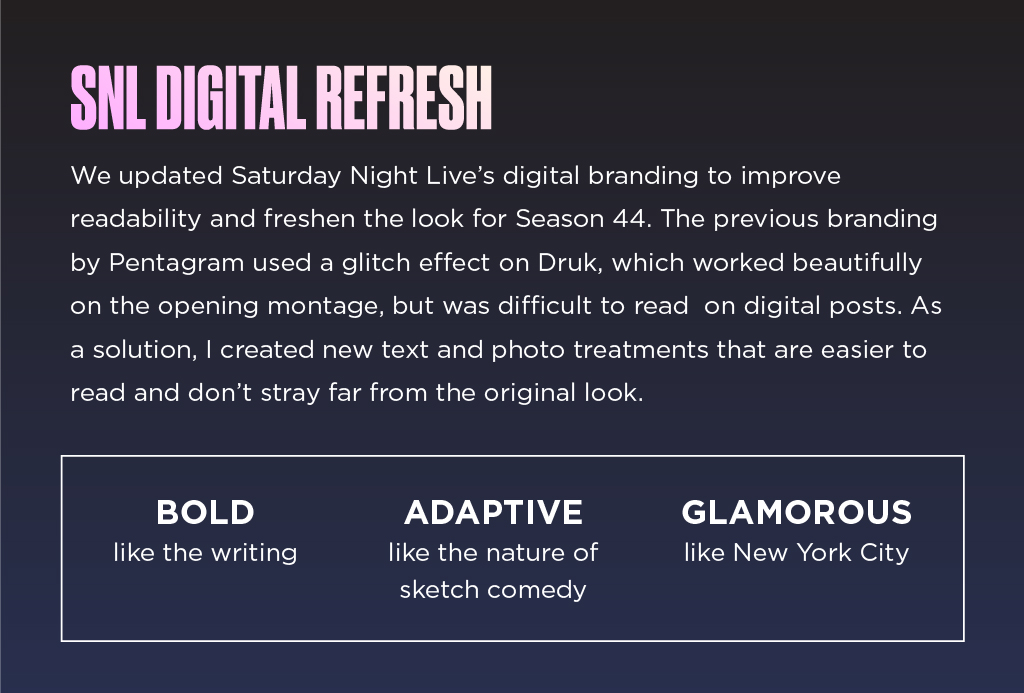
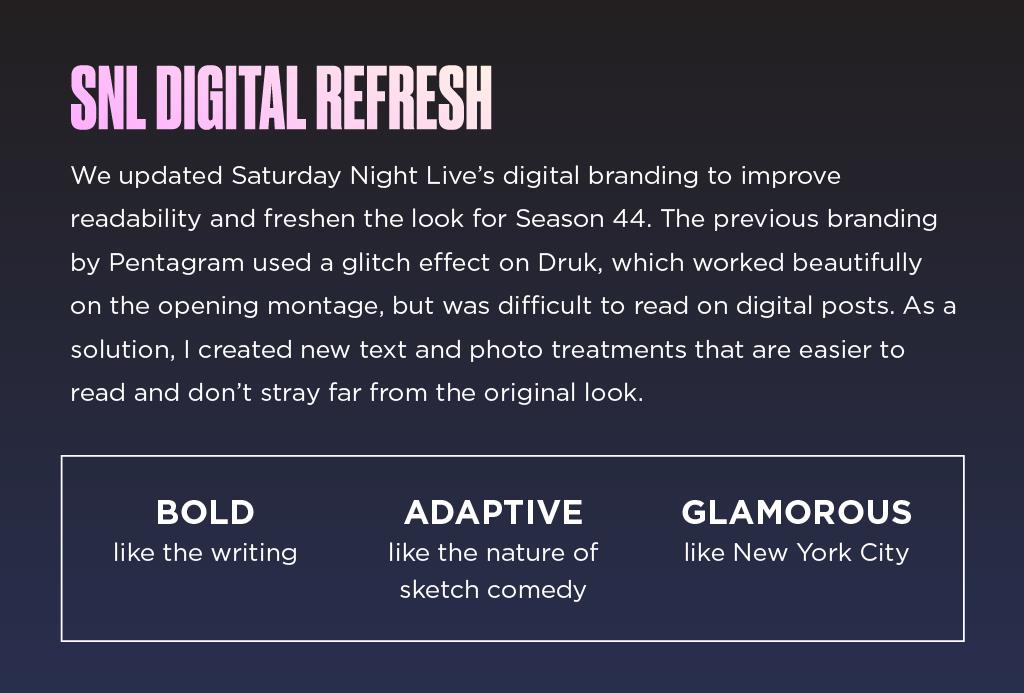
updates v2
switch Courier to Lucida/Monaco, fixed spacing, fixed 404 page, fixed typo in snl-style.jpg, edited copy

Changed region(s): [[0.0625, 0.4848, 0.9062, 0.5152], [0.6875, 0.4242, 0.9375, 0.4545]]

diff --git a/_includes/style.css b/_includes/style.css
@@ -1,1 +1,1 @@
-.h1,.h2,.h3,.p,body,h1,h2,h3,html,p{font-family:Helvetica,Arial,sans-serif}.content,dfn{position:relative}.disable,dfn::after{pointer-events:none}.resume:hover,a:hover,a:link,a:visited{text-decoration:none}.align-center,.copyright{text-align:center}html{min-height:100%}body{height:100%;max-width:1600px}body,html{margin:0 auto;font-size:62.5%;text-transform:lowercase;color:#707070;line-height:1.5;background:#f8fbff;background:-webkit-linear-gradient(#f8fbff,#ebf0f7);background:-moz-linear-gradient(#f8fbff,#ebf0f7);background:linear-gradient(#f8fbff,#ebf0f7)}.content{margin:0 auto;padding:0 10rem}.content:after{clear:both;content:" ";display:block}.nav-logo,a,button,svg path{-webkit-transition:all .2s ease-out;-moz-transition:all .2s ease-out;transition:all .2s ease-out}dfn::after,dfn::before{position:absolute;left:0;opacity:0;transition:opacity 250ms,top 250ms}img{max-width:100%;display:block}section{margin:7rem auto 0}ol,ul{list-style:none}li{display:inherit}hr{margin:5rem}.spacer{margin:5rem 0}.padding-xs{padding:0 0 2rem 2rem}.grey{color:#aaa!important}.disable{cursor:default}a:link,a:visited{color:#DC0BBB}a:hover{color:#3C55E0}.p,p{font-size:1.5rem;text-transform:none;line-height:1.8}.h1,.h2,.h3,h1,h2,h3{font-weight:700;color:#252D56}.h4,.h5,.h6,h4,h5,h6,p span{font-family:Courier,monospace;font-weight:400}.h1,h1{font-size:6rem;line-height:1}.h2,h2{font-size:2.5rem}.h3,h3{font-size:2rem;margin:1rem 0}.h4,h4,p span{font-size:1.5rem;text-transform:lowercase}.h5,h5{font-size:1.5rem;margin:.8rem 0}.nav{display:-webkit-box;display:-moz-box;display:-ms-flexbox;display:-webkit-flex;display:flex;-webkit-flex-flow:row wrap;justify-content:space-between}.nav-left,.nav>*{display:-ms-flexbox;display:flex}.nav-left{-ms-flex-align:center;align-items:center}.nav-logo{font-size:3.5rem;font-weight:700;line-height:1;color:#DC0BBB;margin-right:.5rem}.nav-link{display:-ms-flexbox;display:flex;flex-flow:nowrap;justify-content:end}.nav-link-social svg,dfn::before{display:block}.nav-link-item{height:2rem;padding-left:.5rem;margin-left:2rem}.nav-link-social{width:1.5rem;padding:.5rem;margin:0 1rem}.nav-link-social svg path{fill:#DC0BBB}.nav-link-social:hover svg path{fill:#3C55E0}dfn{font-style:normal}dfn::after{content:attr(data-info);display:inline;top:25px;width:13rem;color:rgba(0,0,0,.1)}dfn::before{content:'';top:12px;width:0;height:0}.border img,.border img:hover{transition:.2s ease}dfn:hover{z-index:2}dfn:hover::after,dfn:hover::before{opacity:1}dfn:hover::after{top:40px}dfn:hover::before{top:20px}.nav-link-item,.resume{font-size:1.7rem;font-weight:700}.intro-margin{margin:1.5rem 0}.intro{margin:10rem 0}.title{margin-top:10rem}.margin-xs{margin:0 5rem}.btn-margin{margin:4.5rem 0}.resume{padding:1rem 3rem;color:#DC0BBB;border:4px solid #DC0BBB}.resume:hover{background:#3C55E0;border:4px solid #3C55E0;color:#fff}.main{display:-ms-grid-columns;display:grid;grid-template-columns:repeat(auto-fit,minmax(250px,1fr));grid-gap:1rem;margin-top:4rem}main img{display:block;width:100%}.col-2,.col-3,.col-4{display:grid;grid-gap:1rem;margin-top:5rem}.col-4{grid-template-columns:repeat(4,1fr)}.col-3{grid-template-columns:repeat(3,1fr)}.col-2,.col-2-nest{grid-template-columns:repeat(2,1fr)}.home .col-3{grid-gap:3rem}.col-1,.col-2-nest{display:grid;grid-gap:1rem}.col-1{grid-template-columns:repeat(1,1fr);margin:5rem 15rem 0}.item{grid-row:span 4}.animate{-webkit-animation-duration:1s;animation-duration:1s;-webkit-animation-fill-mode:both;animation-fill-mode:both}@-webkit-keyframes fadeIn{from{opacity:.3}to{opacity:1}}@keyframes fadeIn{from{opacity:.3}to{opacity:1}}.fadeIn{-webkit-animation-name:fadeIn;animation-name:fadeIn}@-webkit-keyframes fadeInDown{from{opacity:.3;-webkit-transform:translate3d(0,-100%,0);transform:translate3d(0,-100%,0)}to{opacity:1;-webkit-transform:none;transform:none}}@keyframes fadeInDown{from{opacity:.3;-webkit-transform:translate3d(0,-100%,0);transform:translate3d(0,-100%,0)}to{opacity:1;-webkit-transform:none;transform:none}}.fadeInDown{-webkit-animation-name:fadeInDown;animation-name:fadeInDown}.card{margin-bottom:3rem}.card:hover .h3{color:#3C55E0!important}.border img:hover{box-shadow:0 0 0 5px #3C55E0}.card img{margin:1.5rem 0}.card a{color:#252D56}.shadow{box-shadow:0 3px 10px 0 rgba(0,0,0,.1)}.padding-4{padding-left:4px}.main-faq{display:-ms-grid-columns;display:grid;grid-template-columns:repeat(auto-fit,minmax(325px,1fr));grid-gap:5rem;margin-top:4rem}.main-faq div{background-color:#fff;padding:20px}.faq img{display:inline-block;width:100%;max-width:275px;border-radius:50rem}footer{bottom:0;width:100%;margin:12rem 0 1rem}.copyright{width:100%}@media screen and (max-width:991px){.col-4,.home .col-3{grid-template-columns:repeat(2,1fr)}{grid-template-columns:repeat(1,1fr)}.col-1{margin:5rem 0 0}.margin-xs{margin:unset}}@media screen and (max-width:767px){.content{padding:0 2rem}.home .col-3{grid-template-columns:repeat(1,1fr)}h1{font-size:4rem}.nav{justify-content:center;padding:0 10rem}.nav-link-item,.nav-link-social{padding:1.2rem}.nav-link{padding-left:0}}@media screen and (max-width:553px){.col-2,.col-2-nest,.col-3,.col-4{grid-template-columns:repeat(1,1fr)}.h1,.nav-logo,h1{font-size:3rem}}@media screen and (max-width:350px){.h1,h1{font-size:2.4rem}.intro{margin:7rem 0}}
+html{min-height:100%}body{height:100%;max-width:1600px}html,body{margin:0 auto;font-size:62.5%;font-family:Helvetica,Arial,sans-serif;text-transform:lowercase;color:#707070;line-height:1.5;background:#f8fbff;background:-webkit-linear-gradient(#f8fbff,#ebf0f7);background:-moz-linear-gradient(#f8fbff,#ebf0f7);background:linear-gradient(#f8fbff,#ebf0f7)}.content{margin:0 auto;position:relative;padding:0 10rem}.content:after{clear:both;content:" ";display:block}.align-center{text-align:center}a,button,svg path,.nav-logo{-webkit-transition:all 0.2s ease-out;-moz-transition:all 0.2s ease-out;transition:all 0.2s ease-out}img{max-width:100%;display:block}section{margin:7rem auto 0}ol,ul{list-style:none}li{display:inherit}hr{margin:5rem}.spacer{margin:5rem 0}.big-spacer{margin:11rem 0}.padding-xs{padding:0 0 2rem 2rem}.grey{color:#aaaaaa!important}.disable{pointer-events:none;cursor:default}a:link{color:#DC0BBB;text-decoration:none}a:visited{color:#DC0BBB;text-decoration:none}a:hover{color:#3C55E0;text-decoration:none}.p,p{font-size:1.5rem;font-family:Helvetica,Arial,sans-serif;text-transform:none;line-height:1.8}.h1,h1,.h2,h2,.h3,h3{font-family:Helvetica,Arial,sans-serif;font-weight:700;color:#252D56}.h4,h4,.h5,h5,.h6,h6,p span{font-family:Lucida Console,Monaco,monospace;font-weight:700}.h1,h1{font-size:4.5vw;line-height:1.2}.h2,h2{font-size:2.5rem}.h3,h3{font-size:2rem;margin:1rem 0}.h4,h4,p span{font-size:1.5rem;text-transform:lowercase}.h5,h5{font-size:1.2rem;margin:.6rem 0}.nav{display:-ms-flexbox;display:flex}.nav{display:-webkit-box;display:-moz-box;display:-ms-flexbox;display:-webkit-flex;display:flex;-webkit-flex-flow:row wrap;justify-content:space-between}.nav-left,.nav>*{display:-ms-flexbox;display:flex}.nav-left{-ms-flex-align:center;align-items:center}.nav-logo{font-size:3.5rem;font-weight:700;color:#252D56;line-height:1;color:#DC0BBB;margin-right:.5rem}.nav-link{display:-ms-flexbox;display:flex;flex-flow:nowrap;justify-content:end}.nav-link-item{height:2rem;padding-left:.5rem;margin-left:2rem}.nav-link-social{width:1.5rem;padding:.5rem;margin:0 1rem}.nav-link-social svg{display:block}.nav-link-social svg path{fill:#DC0BBB}.nav-link-social:hover svg path{fill:#3C55E0}dfn{font-style:normal;position:relative}dfn::after{content:attr(data-info);display:inline;position:absolute;top:25px;left:0;opacity:0;width:13rem;color:rgba(0,0,0,.1);pointer-events:none;transition:opacity 250ms,top 250ms}dfn::before{content:'';display:block;position:absolute;top:12px;left:0;opacity:0;width:0;height:0;transition:opacity 250ms,top 250ms}dfn:hover{z-index:2}dfn:hover::after,dfn:hover::before{opacity:1}dfn:hover::after{top:40px}dfn:hover::before{top:20px}.nav-link-item,.resume{font-size:1.7rem;font-weight:700}.intro-margin{margin:1.5rem 0}.intro{margin:15rem 0}.title{margin-top:10rem}.margin-xs{margin:0 5rem}.btn-margin{margin:5rem 0}.resume{padding:1rem 3rem;color:#DC0BBB;border:4px solid #DC0BBB}.resume:hover{text-decoration:none;background:#3C55E0;border:4px solid #3C55E0;color:#fff}.main{display:-ms-grid-columns;display:grid;grid-template-columns:repeat(auto-fit,minmax(250px,1fr));grid-gap:1rem;margin-top:4rem}main img{display:block;width:100%}.col-4{display:grid;grid-template-columns:repeat(4,1fr);grid-gap:2rem;margin-top:5rem}.col-3{display:grid;grid-template-columns:repeat(3,1fr);grid-gap:3rem;margin-top:5rem}.col-2{display:grid;grid-template-columns:repeat(2,1fr);grid-gap:3rem;margin-top:5rem}.col-2-nest{display:grid;grid-template-columns:repeat(2,1fr);grid-gap:2rem}.col-1{display:grid;grid-template-columns:repeat(1,1fr);grid-gap:3rem;margin:5rem 15rem 0}.item{grid-row:span 4}.animate{-webkit-animation-duration:1s;animation-duration:1s;-webkit-animation-fill-mode:both;animation-fill-mode:both}@-webkit-keyframes fadeIn{from{opacity:.3}to{opacity:1}}@keyframes fadeIn{from{opacity:.3}to{opacity:1}}.fadeIn{-webkit-animation-name:fadeIn;animation-name:fadeIn}@-webkit-keyframes fadeInDown{from{opacity:.3;-webkit-transform:translate3d(0,-100%,0);transform:translate3d(0,-100%,0)}to{opacity:1;-webkit-transform:none;transform:none}}@keyframes fadeInDown{from{opacity:.3;-webkit-transform:translate3d(0,-100%,0);transform:translate3d(0,-100%,0)}to{opacity:1;-webkit-transform:none;transform:none}}.fadeInDown{-webkit-animation-name:fadeInDown;animation-name:fadeInDown}.card{margin-bottom:3rem}.card:hover .h3{color:#3C55E0!important}.border img{transition:.2s ease}.border img:hover{box-shadow:0 0 0 5px #3C55E0;transition:.2s ease}.card img{margin:1.5rem 0}.card a{color:#252D56}.shadow{box-shadow:0 3px 10px 0 rgba(0,0,0,.1)}.padding-4{padding-left:4px}.main-faq{display:-ms-grid-columns;display:grid;grid-template-columns:repeat(auto-fit,minmax(325px,1fr));grid-gap:5rem;margin-top:4rem}.main-faq div{background-color:#fff;padding:20px}.faq img{display:inline-block;width:100%;max-width:275px;border-radius:50rem}footer{bottom:0;width:100%;margin:12rem 0 1rem}.copyright{width:100%;text-align:center}@media screen and (min-width:1600px){.big-spacer{margin:35rem 0}h1{font-size:7rem}}@media screen and (max-width:991px){.home .col-3,.col-4{grid-template-columns:repeat(2,1fr)}.col-1{margin:5rem 0 0}.margin-xs{margin:unset}}@media screen and (max-width:767px){.content{padding:0 2rem}.home .col-3{grid-template-columns:repeat(1,1fr)}.nav{justify-content:center;padding:0 10rem}.nav-link-item,.nav-link-social{padding:1.2rem}.nav-link{padding-left:0}.card{text-align:center}}@media screen and (max-width:553px){h1{font-size:3rem}.col-2-nest,.col-2,.col-3,.col-4{grid-template-columns:repeat(1,1fr)}}@media screen and (max-width:350px){.intro{margin:7rem 0}}

diff --git a/404.html b/404.html
@@ -1,10 +1,20 @@
 ---
 layout: portfolio
-title: Error 404
+title:
+permalink: /404.html
 ---
-
+<div class="big-spacer"></div>
 <div class="align-center">
-  <h4>What the freakin heck :( </h4>
-  <p>The requested page could not be found. Maybe I deleted the page? Maybe you made a typo in the url?</p>
+  <h1>Error 404 </h1>
+  <h2>What the freakin heck :(<br>The requested page could not be found. </h2>
+<div class="spacer"></div>
+<ol class="p">
+    <li><strong>Possible Reasons</strong></li>
+    <li>- There's a typo in the url</li>
+    <li>- I might have deleted the page</li>
+    <li>- The page never existed</li>
+    <li>If you're still having issues, feel free to <a href="mailto:gira.patel94@gmail.com" aria-label="E-mail" target="_blank">email me</a>!</li>
+    </ol>
 </div>
+<div class="big-spacer"></div>
 

diff --git a/_includes/head.html b/_includes/head.html
@@ -7,7 +7,7 @@
     <title>{{ page.title }} | Gira Patel</title>
     <meta property="og:url" content="{{ site.url }}" />
     <meta property="og:title" content="{{ page.title }}" />
-    <link href="img/favicon.ico" rel="icon" type="image/bmp">
+    <link href="../img/favicon.ico" rel="icon" type="image/bmp">
     
     <style>{% include style.css %}</style>
     <style>{% include dist/lity.min.css %}</style>

diff --git a/index.html b/index.html
@@ -15,6 +15,6 @@ title: Home
 {% include main-grid.html %}
 
 <hr>
-<h2 class="align-center">More Work</h2>
+<h2 class="align-center">Other Works</h2>
 {% include mini-grid.html %}
 
